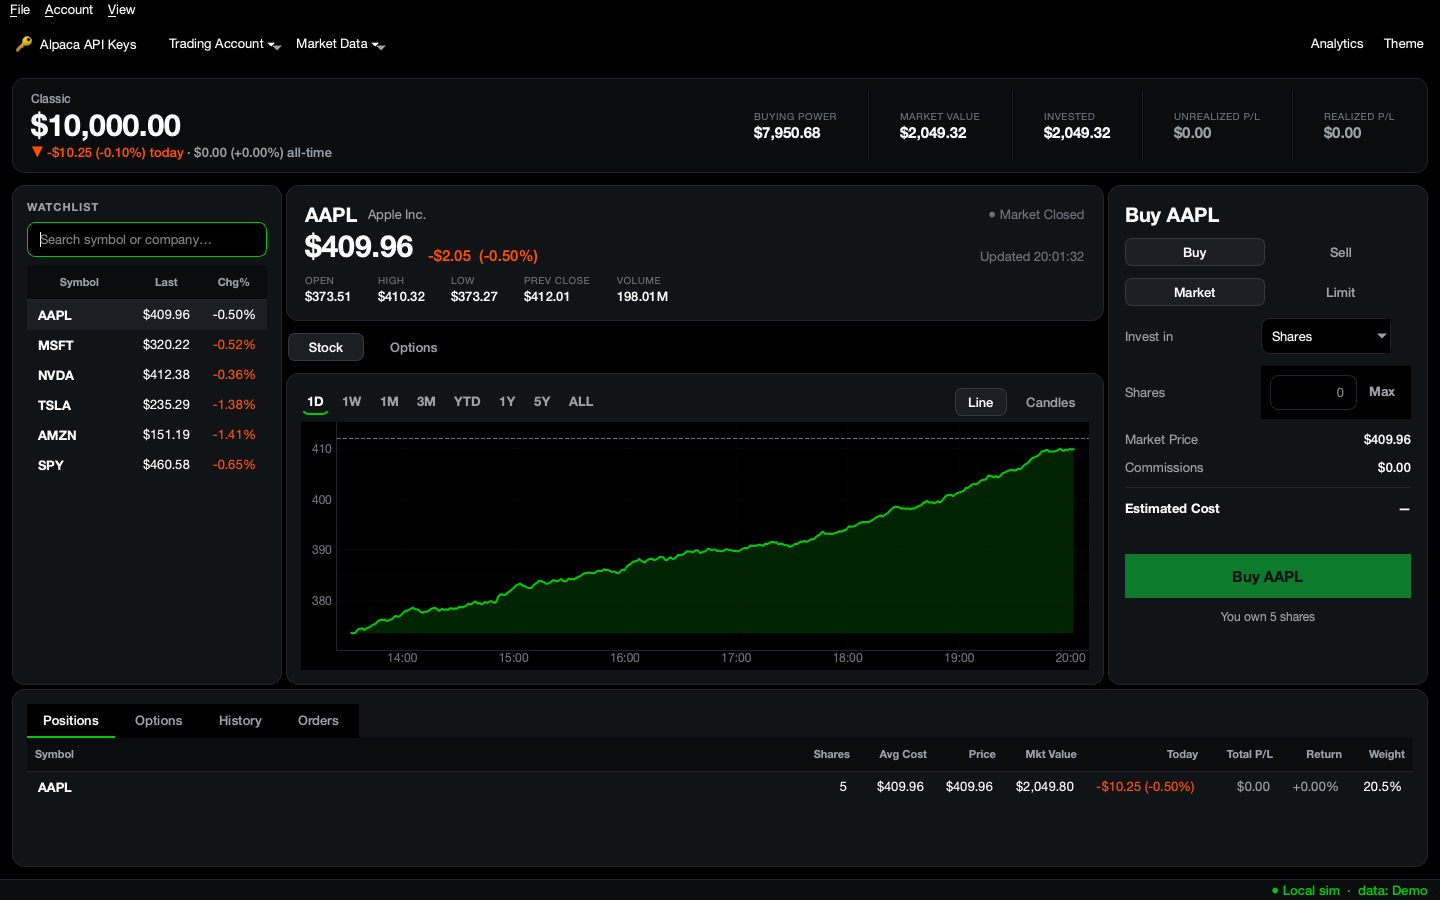
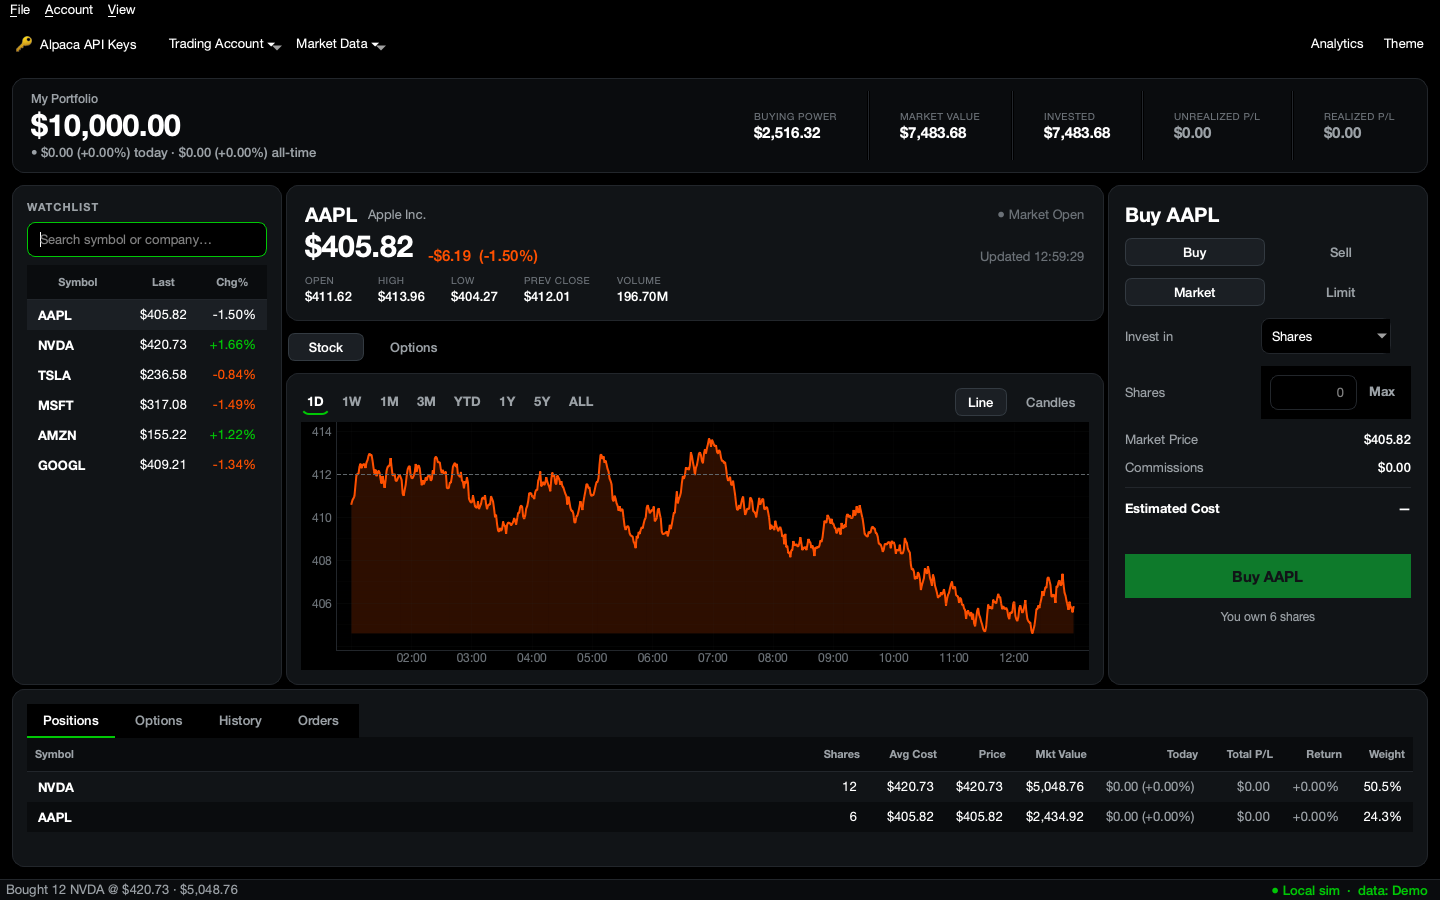
Refresh the README screenshots and text for the new interface
New screenshots of the overhauled UI (dark, options, light candles,
demo scrub) and the classic one. All use the local simulator portfolio
— the previous main and candle shots showed the Alpaca paper account.
The text now covers the sparkline watchlist and its toggle, the hero
that follows the chart, session colours and gap-free multi-day ranges,
toasts, the relocated Stock/Options switch, and the classic UI owning
its own widgets; the file tree is corrected.

diff --git a/README.md b/README.md
@@ -10,7 +10,7 @@ historical charts, and place market & limit orders with fractional shares.
 Everything runs on your machine; the only outbound traffic is to the market-data /
 Alpaca APIs.
 
-![Paper Trader — Alpaca paper account, dark mode](docs/screenshot.png)
+![Paper Trader — dark mode, live Alpaca prices on the local simulator](docs/screenshot.png)
 
 <p align="center"><em>Options mode — a live Black-Scholes chain, the order ticket with Greeks, and open option positions:</em></p>
 
@@ -20,11 +20,11 @@ Alpaca APIs.
 
 ![Paper Trader — the classic interface](docs/screenshot-classic.png)
 
-<p align="center"><em>Candlestick view (Alpaca) and the offline simulator with positions:</em></p>
+<p align="center"><em>Light mode with candles and the OHLC readout, and the offline demo mid-scrub — the price and change follow the crosshair:</em></p>
 
 <p align="center">
-  <img src="docs/screenshot-candles.png" width="49%" alt="Candlestick chart">
-  <img src="docs/screenshot-demo.png" width="49%" alt="Demo mode with positions">
+  <img src="docs/screenshot-candles.png" width="49%" alt="Candlestick chart in light mode">
+  <img src="docs/screenshot-demo.png" width="49%" alt="Demo mode scrubbing a month's chart">
 </p>
 
 ---
@@ -34,8 +34,8 @@ Alpaca APIs.
 - **Real Alpaca paper trading** — market & limit orders route to your Alpaca paper
   account over REST; account, positions, orders and fills come straight from
   Alpaca and show up in your Alpaca dashboard too.
-- **Extended-hours trading** — opt into **pre-market (4:00–9:30 ET)** and
-  **after-hours (4:00–8:00 ET)** sessions on the Alpaca account: an
+- **Extended-hours trading** — opt into **pre-market (4:00–9:30 am ET)** and
+  **after-hours (4:00–8:00 pm ET)** sessions on the Alpaca account: an
   *Extended-hours order* checkbox on limit orders submits them as Alpaca
   `extended_hours` day limits, and the header shows the live **Pre-Market /
   After Hours** session.
@@ -55,9 +55,17 @@ Alpaca APIs.
   (data feed + account poll + orders) under the account's ~200/min cap; batched
   snapshots and cached quotes keep steady-state around ~70/min.
 - **Robinhood-quality GUI** (PyQt6 + pyqtgraph): a top nav with instant symbol
-  search, the price hero, a full-height **line and candlestick** chart with a
-  crosshair, the Buy/Sell order card, and positions / history / open-orders tables.
-  Dark **and** light themes.
+  search, a watchlist of live **sparklines**, the price hero, a full-height
+  **line and candlestick** chart with a crosshair, key statistics, the Buy/Sell
+  order card, and positions / history / open-orders tables. Dark **and** light
+  themes.
+- **A chart that reads like the reference** — scrub it and the hero's price and
+  change follow the crosshair; the change line follows the range (*Today*, *Past
+  week* … *All time*) and the whole page tints green or orange with it. The 1D
+  chart draws pre-market, the regular session and after-hours in their own
+  colours and runs out to the end of the trading day; multi-day ranges take out
+  nights, weekends and holidays, so sessions sit side by side instead of being
+  bridged by long flat lines. Fills and errors arrive as toasts.
 - **A chart that zooms like a trading terminal** — the wheel zooms the time axis
   and the price axis refits itself to whatever is on screen in a single range
   change, so zooming magnifies the candles instead of squashing them into a flat
@@ -137,24 +145,25 @@ python tests/test_alpaca.py        # live Alpaca provider + broker (skips withou
 
 | Area | What you can do |
 |------|-----------------|
-| **Top nav** | **Search** any symbol or company name (`⌘F` / `Ctrl+F`); pick a result to chart and watch it. Typing a symbol and pressing Return validates it with the data provider first, so nothing unrecognised ever reaches your watchlist. **Account** switches trading account and holds your API keys, **Market Data** switches provider, plus **Analytics** and **Theme**. The chip on the right shows the live account + data source. |
+| **Top nav** | The sidebar button (left) shows or hides the watchlist. **Search** any symbol or company name (`⌘F` / `Ctrl+F`); pick a result to chart and watch it. Typing a symbol and pressing Return validates it with the data provider first, so nothing unrecognised ever reaches your watchlist. **Account** switches trading account and holds your API keys, **Market Data** switches provider, plus **Analytics** and **Theme**. The chip on the right shows the live account + data source. |
 | **Account strip** | Total value, today's change, all-time return, and buying-power / market-value / invested / unrealized / realized tiles. |
-| **Watchlist (left rail)** | Click a row to chart it; right-click to remove. Persists per session. |
-| **Centre (Stock / Options)** | A **Stock ⁄ Options** toggle sits above the panel. In **Stock** mode: the big chart — ranges `1D … ALL` under it, **Line / Candles**, hover for a crosshair with the time caption, an OHLC readout and a lit-up price line (the dotted `1D` line is the previous close, and the tag on the right is the last price). The line view is deliberately bare; **Theme → Chart** turns axes and gridlines on if you want them. **Scroll to zoom the time axis** — the price axis refits the visible bars, so candles genuinely magnify — then **Reset zoom** to go back. In **Options** mode: a live **options chain** — pick an expiration, flip **Calls / Puts**, click a strike (the ladder auto-centres on the money) to load it into the ticket. |
-| **Order card (right)** | **Stock:** Buy/Sell, order type, amount in **Shares or Dollars**, **Max**, market price, commissions and estimated cost. **Options:** a card whose label reflects open vs close (*Buy to Open*, *Sell to Close*, …), a contracts stepper, live bid/mark/ask + Δ/θ/IV, estimated cost/credit and the collateral note for shorts. Beneath it: **Trade options** and **Watch / Unwatch** for the active symbol. |
+| **Watchlist (left rail)** | Each row shows the day's sparkline against the previous close, the price and the day's change. Click a row to chart it; right-click to remove. Persists per session. Hide it with the sidebar button or **View → Show Watchlist** (`Ctrl+L`) — the choice is remembered. |
+| **Centre (Stock / Options)** | The **Stock ⁄ Options** and **Line ⁄ Candles** switches sit beside the price. In **Stock** mode: the big chart — ranges `1D … ALL` under it; hover for a crosshair with the time caption (candles get an OHLC readout) while the hero shows the hovered price and its change; the line lights up to the cursor (on `1D`, the hovered session). The dotted `1D` line is the previous close and the tag is the last price; **Key statistics** (open, high, low, previous close, volume) sit under the chart when there is room. The line view is deliberately bare; **Theme → Chart** turns axes and gridlines on if you want them. **Scroll to zoom the time axis** — the price axis refits the visible bars, so candles genuinely magnify — then **Reset zoom** to go back. In **Options** mode: a live **options chain** — pick an expiration, flip **Calls / Puts**, click a strike (the ladder auto-centres on the money) to load it into the ticket. |
+| **Order card (right)** | **Stock:** *Buy ⁄ Sell* tabs in the header (the chevron picks market or limit), order type, amount in **Shares or Dollars**, **Max**, market price, commissions and estimated cost. **Options:** a card whose label reflects open vs close (*Buy to Open*, *Sell to Close*, …), a contracts stepper, live bid/mark/ask + Δ/θ/IV, estimated cost/credit and the collateral note for shorts. Beneath it: **Trade options** and **Watch / Unwatch** for the active symbol. |
+| **Notices** | Fills, cancellations and errors appear as a toast at the bottom of the window; an error clears itself once data flows again. |
 | **Bottom tabs** | **Positions** (stocks), **Options** (each contract's qty, avg premium, mark, value, P&L, Δ, DTE, one-click Close), **History** (every fill incl. options & expirations), **Orders** (resting limit orders with Cancel). |
 | **File menu** | New / Open / Rename / Reset / Save session. |
 | **Account menu** | Trading account, Alpaca API keys, Analytics (`Ctrl+A`) — Sharpe, volatility, drawdown, win rate, equity curve. |
 | **Theme menu** | Dark / light, and how much chart furniture to draw: **price & time axes**, **gridlines**, the **last-price tag**, and **animations**. The line view ships bare (no axes, no grid) — the candlestick view always keeps its scales. Every choice persists. |
 | **View menu** | The same chart switches under **Chart Display**, dark/light (`Ctrl+D`), the market-data source, and focus search. |
-| **Resizing** | The bars between the watchlist, chart and order card — and between the chart and the blotter — are draggable, with minimums so no pane can be dragged out of existence. |
+| **Resizing** | The bars between the watchlist, chart and order card — and between the chart and the blotter — are draggable, with minimums so no pane can be dragged out of existence. Narrow tables drop their least important columns rather than scroll sideways. |
 
 **Limit orders** rest until the market crosses your price (buys fill at/under,
 sells at/over), then execute at the market price on the next tick — even while you
 keep trading other symbols.
 
 **Extended hours** (Alpaca account). Tick **Extended-hours order** on a **limit**
-order to trade the pre-market (4:00–9:30 ET) or after-hours (4:00–8:00 ET)
+order to trade the pre-market (4:00–9:30 am ET) or after-hours (4:00–8:00 pm ET)
 session — it's sent as an Alpaca `extended_hours` day limit (whole shares only;
 market orders and fractional shares aren't eligible after hours). The price
 header's session chip shows when a pre/after-hours session is live.
@@ -170,9 +179,10 @@ assigned, everything OTM expires worthless.
 **The previous interface** is still there: `python run.py --old` runs the
 pre-rework layout (portfolio card, watchlist-with-search rail, chart with its
 range buttons on top, filled area line) against the same sessions, brokers and
-data providers. It lives in `paper_trader/ui_legacy/` and shares every widget
-whose shape didn't change, so there is one implementation of the options chain,
-the blotter tables and the dialogs — only the framing differs.
+data providers. It lives in `paper_trader/ui_legacy/` with its own copies of the
+window, widgets and dialogs (and its own frozen palette in `ui/theme.py`), so
+work on the current interface never changes it; only the data, broker and core
+layers are shared.
 
 Sessions and settings are stored under `~/.paper_trader/` (override with
 `PAPER_TRADER_HOME=/some/dir python run.py`).
@@ -257,28 +267,28 @@ paper_trader/
     ├── persistence/           # ── STORAGE ──
     │   └── store.py           # atomic JSON sessions + settings, multi-session
     │
-    └── ui/                    # ── PRESENTATION (Qt) ──
-        ├── theme.py           # pure-black + light palettes, stylesheet, chart colors
-        ├── anim.py            # rolling numbers, price flash, fades (the motion layer)
-        ├── format.py          # money/%/share/time formatting
-        ├── tables.py          # shared table chrome (header alignment)
-        ├── nav_bar.py         # top bar: wordmark, symbol search, account controls
-        ├── main_window.py     # composition root: wires everything together
-        ├── dialogs.py         # new/open session, analytics, Alpaca API keys
-        ├── controllers/
-        │   ├── data_feed.py   # QThread worker polling market data
-        │   └── broker_feed.py # QThread worker polling the remote broker
-        │   └── widgets/
-        │       ├── portfolio_bar.py   price_header.py   chart.py
-        │       ├── watchlist.py       trade_panel.py
-        │       ├── options_chain.py   option_ticket.py  options_positions.py
-        │       └── positions_table.py history_table.py
-        │
-        └── ui_legacy/             # ── THE PREVIOUS UI (run.py --old) ──
-            ├── main_window.py     # the earlier composition root
-            └── widgets/           # only the views whose layout changed:
-                ├── chart.py       price_header.py   portfolio_bar.py
-                └── trade_panel.py watchlist.py
+    ├── ui/                    # ── PRESENTATION (Qt) ──
+    │   ├── theme.py           # pure-black + light palettes, stylesheet, chart colors
+    │   ├── icons.py           # SVG icon set (logo, search, chevrons, checks, …)
+    │   ├── anim.py            # rolling numbers, price flash, fades (the motion layer)
+    │   ├── format.py          # money/%/share/time formatting
+    │   ├── tables.py          # shared table chrome: row hover, columns that drop to fit
+    │   ├── nav_bar.py         # top bar: wordmark, symbol search, account controls
+    │   ├── main_window.py     # composition root: wires everything together
+    │   ├── dialogs.py         # new/open session, analytics, Alpaca API keys
+    │   ├── controllers/
+    │   │   ├── data_feed.py   # QThread worker polling market data (+ sparklines)
+    │   │   └── broker_feed.py # QThread worker polling the remote broker
+    │   └── widgets/
+    │       ├── portfolio_bar.py   price_header.py   chart.py
+    │       ├── watchlist.py       trade_panel.py    segments.py   toast.py
+    │       ├── options_chain.py   option_ticket.py  options_positions.py
+    │       └── positions_table.py history_table.py
+    │
+    └── ui_legacy/             # ── THE PREVIOUS UI (run.py --old) ──
+        ├── main_window.py     # the earlier composition root
+        ├── dialogs.py         # its own copy of the dialogs
+        └── widgets/           # its own copies of every view it shows
 ```
 
 ### Data flow
@@ -367,7 +377,7 @@ The app was built and verified bottom-up, each layer tested before the next:
   frequent fill polling. Yahoo's per-IP throttling is handled with backoff and
   cookie/crumb self-healing. Steady-state Alpaca usage is ~66/min.
 - **Resilience.** Network/HTTP failures, invalid tickers, missing keys and offline
-  states are caught as typed errors, surfaced non-blockingly in the status bar, and
+  states are caught as typed errors, surfaced non-blockingly as toasts, and
   never crash the app or lose your last good data. Saves are atomic; corrupt
   session files are skipped rather than fatal.
 - **Credentials.** Alpaca keys live in `~/.paper_trader/credentials.json`
